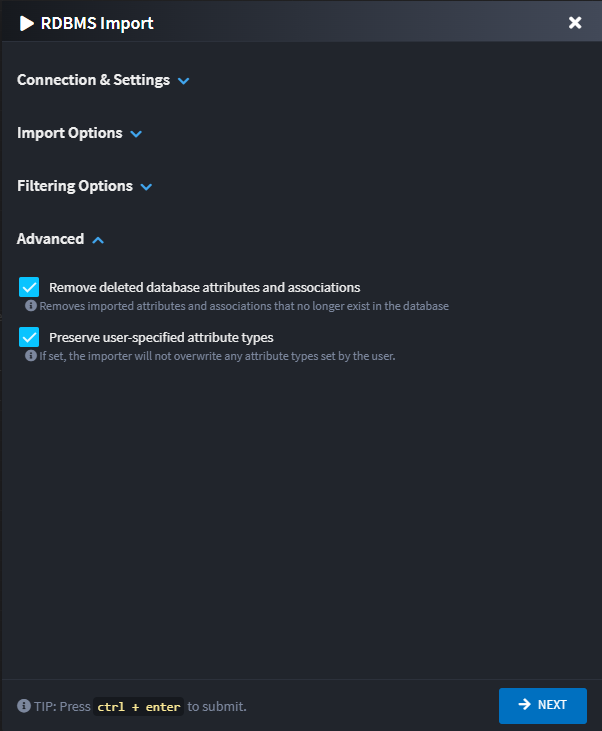
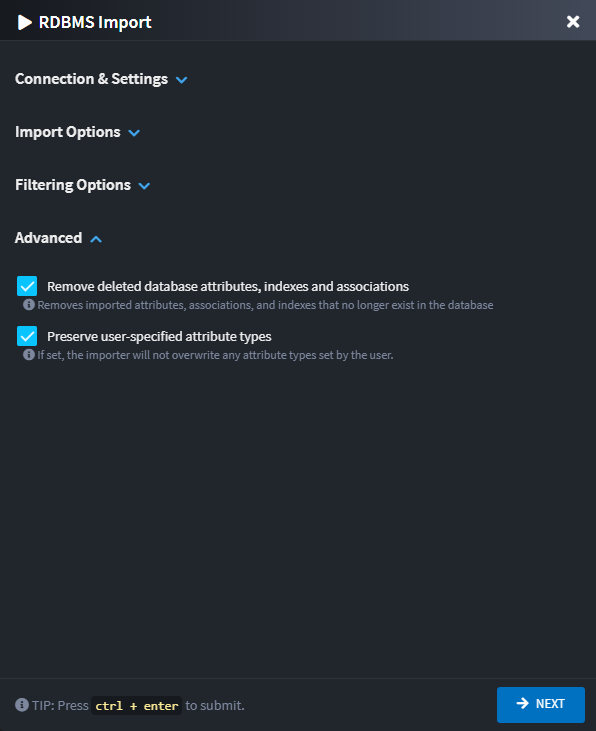
Update README to clarify removal of deleted attributes, indexes, and associations during import

diff --git a/Modules/Intent.Modules.Rdbms.Importer/docs/README.md b/Modules/Intent.Modules.Rdbms.Importer/docs/README.md
@@ -104,12 +104,15 @@ For details on the format of this file, refer to the [Filter File Structure](#fi
 
 The Advanced section contains options for fine-tuning the import behavior:
 
-#### Remove Deleted Database Attributes and Associations
+#### Remove Deleted Database Attributes, Indexes and Associations
 
-When checked, the importer will remove attributes and associations from your domain model that no longer exist in the database. This helps keep your domain model synchronized with the database schema.
+When checked, the importer will remove attributes, associations, and indexes from your domain model that no longer exist in the database. This helps keep your domain model synchronized with the database schema.
 
-- **Enabled** (default) - Attributes and associations that no longer exist in the database will be removed during import.
-- **Disabled** - Existing attributes and associations will be preserved even if they no longer exist in the database.
+- **Enabled** (default) - Attributes, associations, and indexes that no longer exist in the database will be removed during import.
+- **Disabled** - Existing attributes, associations, and indexes will be preserved even if they no longer exist in the database.
+
+> [!NOTE]
+> Index removal only occurs when both "Include Indexes" is checked and this option is enabled. If "Include Indexes" is unchecked, indexes are not tracked and therefore not subject to removal.
 
 #### Preserve User-Specified Attribute Types
 
